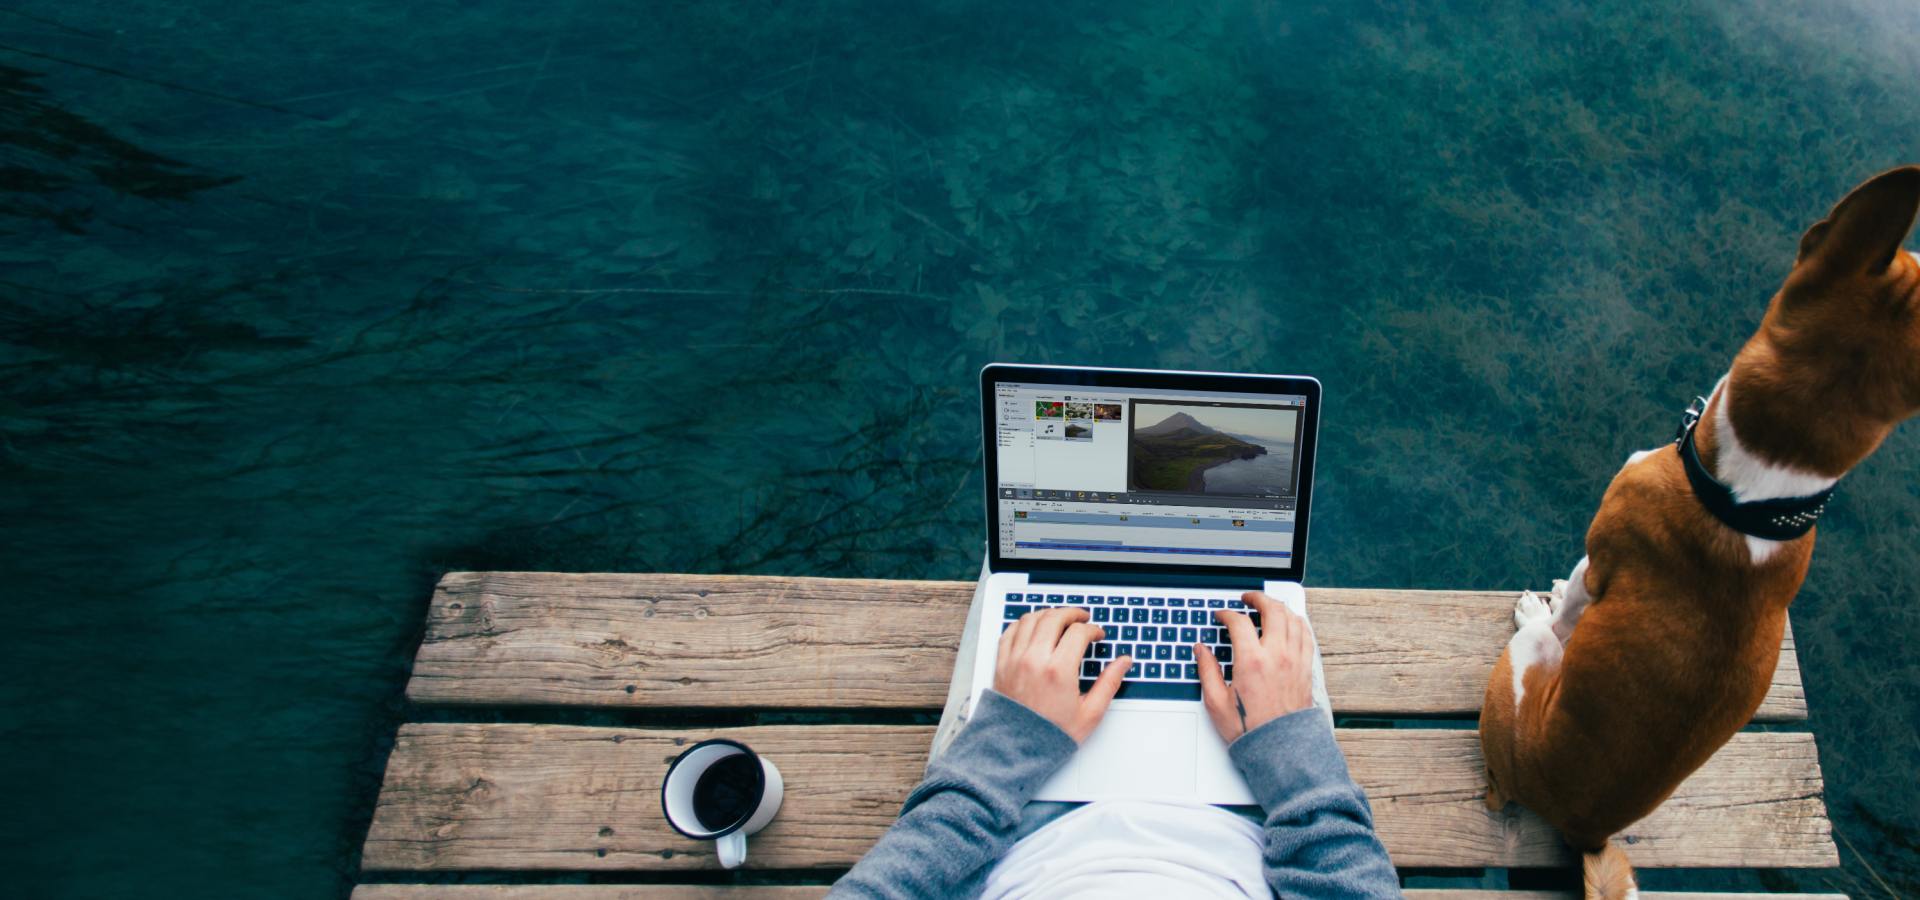
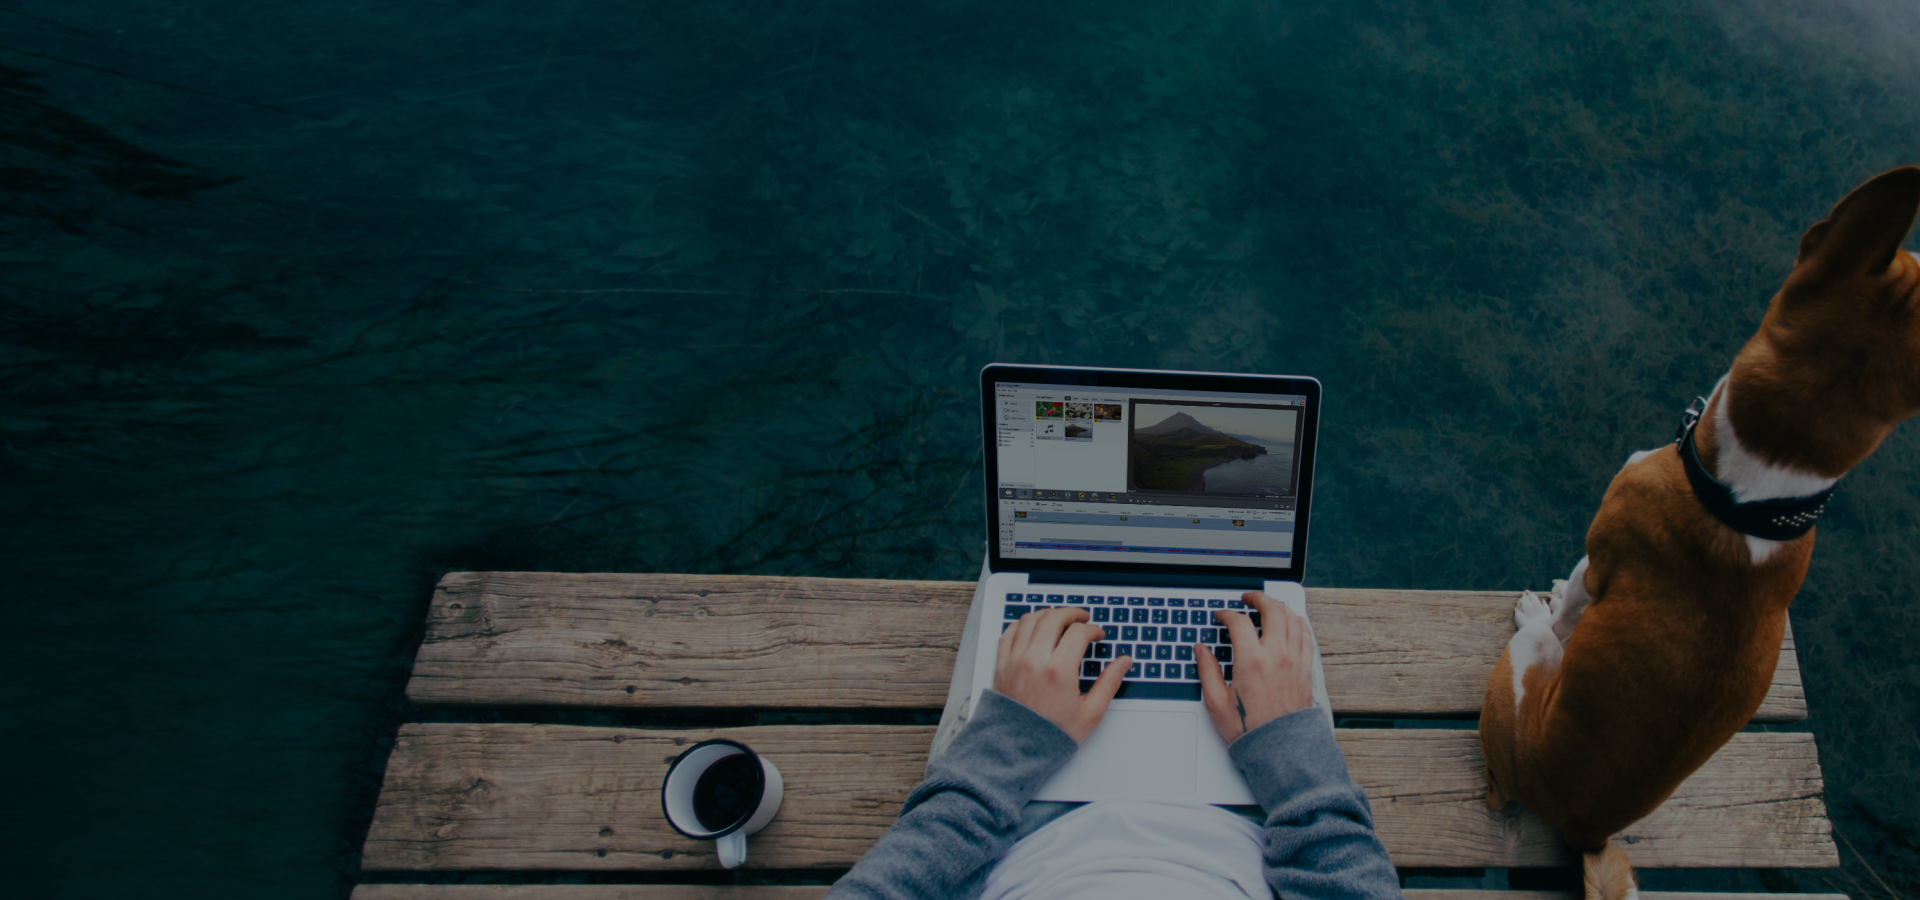
removed header from avs-video-cutter.aspx and changed bg image for avs-video-editor-imovie.apsx

diff --git a/Client/src/screens/avs-video-editor-imovie/heroSection/heroSection.styled.js b/Client/src/screens/avs-video-editor-imovie/heroSection/heroSection.styled.js
@@ -27,17 +27,21 @@ export const HeroSectionStyled = styled.section`
 `
 
 export const HeroSectionContainer = styled.div`
-  max-width: 700px;
-  width: 100%;
-  margin: 0 auto;
-  
-  display: flex;
-  flex-direction: column;
-  align-items: center;
-  color: #FFF;
-  text-align: center;
-  position: relative;
-  z-index: 1;
+    max-width: 700px;
+    width: 100%;
+    //margin: 0 auto;
+
+    display: flex;
+    flex-direction: column;
+
+    color: #FFF;
+    position: relative;
+    z-index: 1;
+
+    @media screen and (max-width: 500px) {
+        align-items: stretch;
+        text-align: center;
+    }
 `
 
 export const HeroSectionTitle = styled.h1`
@@ -63,7 +67,6 @@ export const HeroSectionTitle = styled.h1`
 
 export const HeroSectionDesc = styled.p`
   margin: 0 0 56px 0;
-  text-align: center;
   font-size: 18px;
   font-style: normal;
   font-weight: 400;
@@ -77,39 +80,40 @@ export const HeroSectionDesc = styled.p`
 `
 
 export const HeroSectionLink = styled.a`
-  color: inherit;
-  padding: 16px 45px;
-  border-radius: 5px;
-  background: var(--Orange, #FE9235);
-  
-  font-size: 24px;
-  font-style: normal;
-  font-weight: 600;
-  line-height: normal;
-  text-transform: uppercase;
-  
-  display: flex;
-  flex-direction: column;
-  align-items: center;
-  gap: 4px;
-  
-  span {
-    font-size: 16px;
+    color: inherit;
+    padding: 16px 45px;
+    border-radius: 5px;
+    background: var(--Orange, #FE9235);
+    max-width: 456px;
+
+    font-size: 24px;
     font-style: normal;
-    font-weight: 400;
-    line-height: 24px;
-  }
-  
-  &:hover {
-    text-decoration: none;
-  }
-  
-  @media screen and (max-width: 500px) {
-    padding: 16px;
-    font-size: 16px;
-  }
-  
-  @media screen and (max-width: 400px) {
-    width: 100%;
-  }
+    font-weight: 600;
+    line-height: normal;
+    text-transform: uppercase;
+
+    display: flex;
+    flex-direction: column;
+    align-items: center;
+    gap: 4px;
+
+    span {
+        font-size: 16px;
+        font-style: normal;
+        font-weight: 400;
+        line-height: 24px;
+    }
+
+    &:hover {
+        text-decoration: none;
+    }
+
+    @media screen and (max-width: 500px) {
+        padding: 16px;
+        font-size: 16px;
+    }
+
+    @media screen and (max-width: 400px) {
+        width: 100%;
+    }
 `

diff --git a/Client/src/pages/avs-video-cutter.aspx.js b/Client/src/pages/avs-video-cutter.aspx.js
@@ -22,6 +22,7 @@ const AvsVideoCutter = (props) => {
             metaDescription=""
             metaKeywords=""
             isTinyFooter
+            headerIsDisabled
         >
             <HeroSection t={props.t}/>
             <GuideSection t={props.t} />
